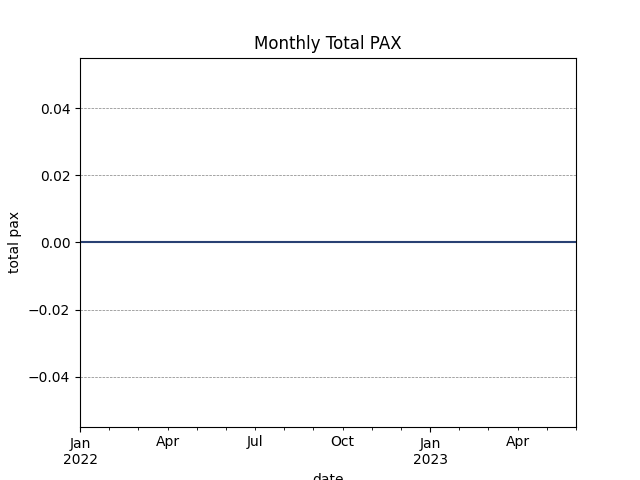
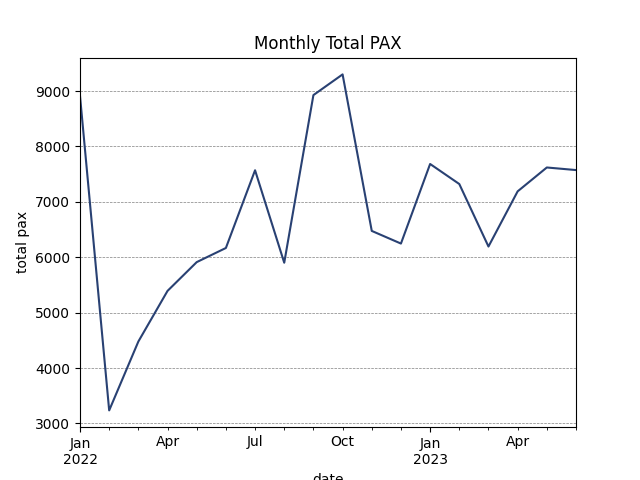
saving progress

diff --git a/DBanalysis/qry_generation.py b/DBanalysis/qry_generation.py
@@ -1,0 +1,76 @@
+# # import test3
+# class qrySwitch:
+#   total_seats = " SUM(\"Seats\") "
+#   total_pax = " SUM(\"Total pax\") "
+#   total_rev = " SUM(\"Rev\") "
+
+# class airports:
+#   from_india = "FROM cirium_traffic_asia WHERE \"Orig\" IN ('IXA', 'AMD', 'ATQ', 'BLR', 'BBI', 'MAA', 'CJB', 'DED', 'DEL', 'JWR', 'GOI', 'GOX', 'GAY', 'GAU', 'HYD', 'IMF', 'IDR', 'JAI', 'CNN', 'COK', 'CCU', 'CCJ', 'LKO', 'IXM', 'IXE', 'BOM', 'NAG',  'PNQ', 'IXR', 'IXB', 'SXR', 'STV', 'TRV', 'TIR', 'TRZ', 'BDQ', 'VNS', 'VGA', 'VTZ')"
+#   from_usa = ""
+
+# def monthGenerator(year, num):
+#     month = ''
+#     month2 = ''
+#     if (num > 12 & num < 1):
+#             return 0
+#     if (num >= 10 & num <= 12):
+#             month = '-' + str(num) + "-01 00:00:00' "
+#             month2 = '-' + str(num) + "-02 00:00:00'"
+#     else:
+#       month = '-0' + str(num) + "-01 00:00:00' "
+#       month2 = '-0' + str(num) + "-02 00:00:00'"
+#     return "BETWEEN " + "'" + str(year) + month + 'AND ' + str(year) + month2
+
+# def biannualGenerator(year, num):
+#     if (num >= 3 & num <= 0):
+#       return 'error'
+#     if (num == 1):
+#       return "BETWEEN " + "'" + str(year) + "-01-01 00:00:00' " + 'AND ' + str(year) + "-06-02 00:00:00' "
+#     else:
+#       return "BETWEEN " + "'" + str(year) + "-07-01 00:00:00' " + 'AND ' + str(year) + "-12-02 00:00:00' "
+
+# def qryGenerator(qry, interval, year, num):
+#     intv = ''
+#     if (interval == 'month'):
+#       intv = monthGenerator(year, num)
+#     elif (interval == 'biannual'):
+#       intv = biannualGenerator(year, num)
+
+#     if (qry == 'total_seats'):
+#       qry = qrySwitch.total_seats
+#     elif (qry == 'total_pax'):
+#       qry = qrySwitch.total_pax
+#     return 'SELECT ' + qry + "AND \"Year-Month-Day\" " + intv
+
+# print(qryGenerator('total_seats', 'month','2022', 11))
+
+locationDict = {"fromUs" : """WHERE "Orig" IN 
+             ('ABE', 'ABI', 'ABR', 'ABY', 'ACK', 'ACT', 'ACV', 'ACY', 'ADK', 'ADQ', 'AEX', 'AGS', 
+             'AKC', 'ALB', 'ALW', 'AMA', 'ANC', 'APN', 'ASE', 'ATL', 'ATW', 'AUG', 'AUS', 'AVL', 
+             'AVP', 'AZO', 'BDL', 'BET', 'BFF', 'BFL', 'BGM', 'BGR', 'BHM', 'BIL', 'BIS', 'BLI', 
+             'BMI', 'BNA', 'BOI', 'BOS', 'BPT', 'BQK', 'BQN', 'BRO', 'BRW', 'BTM', 'BTR', 'BTV', 
+             'BUF', 'BUR', 'BWI', 'BZN', 'CAE', 'CAK', 'CDC', 'CDV', 'CEC', 'CHA', 'CHO', 'CHS', 'CIC', 
+             'CID', 'CKB', 'CLD', 'CLE', 'CLL', 'CLT', 'CMH', 'CMI', 'COD', 'COS', 'CPR', 'CRP', 'CRW', 
+             'CSG', 'CVG', 'CWA', 'DAB', 'DAL', 'DAY', 'DBQ', 'DCA', 'DEN', 'DFW', 'DHN', 'DIK', 'DLG',
+              'DLH', 'DRO', 'DSM', 'DTW', 'DVL', 'EAR', 'EAT', 'EAU', 'ECP', 'EGE', 'EKO', 'ELM', 'ELP', 
+             'ERI', 'EUG', 'EVV', 'EWN', 'EWR', 'EYW', 'FAI', 'FAR', 'FAT', 'FAY', 'FCA', 'FCM', 'FLL', 
+             'FLO', 'FNT', 'FSD', 'FSM', 'FWA', 'FYV', 'GEG', 'GFK', 'GGG', 'GJT', 'GNV', 'GPT', 'GRB', 
+             'GRI', 'GRK', 'GRR', 'GSO', 'GSP', 'GST', 'GTF', 'GTR', 'GUC', 'HNL', 'HOB', 'HOU', 'HPN', 
+             'HRL', 'HSV', 'HTS', 'IAD', 'IAH', 'ICT', 'IDA', 'ILG', 'IND', 'INL', 'ISN', 'ISP', 'ITH', 'ITO', 
+             'IYK', 'JAC', 'JAN', 'JAX', 'JFK', 'JNU', 'KTN', 'LAN', 'LAS', 'LAX', 'LBB', 'LBE', 'LBF', 'LCH', 
+             'LCK', 'LEW', 'LEX', 'LFT', 'LGA', 'LGB', 'LIH', 'LIT', 'LMT', 'LNK', 'LRD', 'LSE', 'LWB', 'LYH',
+              'MBS', 'MCI', 'MCN', 'MCO', 'MDT', 'MDW', 'MEI', 'MEM', 'MFE', 'MFR', 'MHT', 'MIA', 'MKE', 'MKG', 
+             'MLB', 'MLU', 'MOB', 'MOD', 'MOT', 'MQT', 'MVY', 'MYR', 'OAJ', 'OAK', 'OGG', 'OKC', 'OMA', 'ONT', 
+             'ORD', 'ORF', 'OTZ', 'OXR', 'PBI', 'PDX', 'PGD', 'PHL', 'PHX', 'PIE', 'PIR', 'PIT', 'PSC', 'PSG', 'PSP', 
+             'PVD', 'PWM', 'RAP', 'RDD', 'RDM', 'RDU', 'RFD', 'RHI', 'RIC', 'RNO', 'ROC', 'ROW', 'RST', 'RSW', 'SAF', 
+             'SAN', 'SAT', 'SAV', 'SBA', 'SCE', 'SDF', 'SEA', 'SFB', 'SFO', 'SJC', 'SJT', 'SJU', 'SLC', 'SMF', 'SNA', 
+             'SPI', 'SPN', 'SRQ', 'STC', 'STL', 'STT', 'STX', 'SUN', 'SWF', 'SYR', 'TLH', 'TOL', 'TPA', 'TRI', 'TTN', 
+             'TUL', 'TUS', 'TVC', 'TWF', 'TXK', 'TYR', 'TYS', 'UIN', 'USA', 'VLD', 'VPS', 'WRG', 'WYS', 'XNA', 'YAK', 'YUM')
+"""}
+
+selectDict = {"pax" : "SUM(\"Total Pax\")"}
+
+def traLocGenerator(iata):
+    return 
+
+print(selectDict["pax"] + ' ' +locationDict["fromUs"])

diff --git a/DBanalysis/test3.py b/DBanalysis/test3.py
@@ -16,48 +16,7 @@ db_uri = 'postgresql://student003:chihrusvfnihdipp@dataviation-database-1.chl8zb
 engine = create_engine(db_uri, echo=False)
 conn = engine.connect()
 
-class qrySwitch:
-  total_seats = " SUM(\"Seats\") "
-  total_pax = " SUM(\"Total pax\") "
-  total_rev = " SUM(\"Rev\") "
 
-class airports:
-  from_india = "FROM cirium_traffic_asia WHERE \"Orig\" IN ('IXA', 'AMD', 'ATQ', 'BLR', 'BBI', 'MAA', 'CJB', 'DED', 'DEL', 'JWR', 'GOI', 'GOX', 'GAY', 'GAU', 'HYD', 'IMF', 'IDR', 'JAI', 'CNN', 'COK', 'CCU', 'CCJ', 'LKO', 'IXM', 'IXE', 'BOM', 'NAG',  'PNQ', 'IXR', 'IXB', 'SXR', 'STV', 'TRV', 'TIR', 'TRZ', 'BDQ', 'VNS', 'VGA', 'VTZ')"
-
-def monthGenerator(year, num):
-    month = ''
-    month2 = ''
-    if (num > 12 & num < 1):
-            return 0
-    if (num >= 10 & num <= 12):
-            month = '-' + str(num) + "-01 00:00:00' "
-            month2 = '-' + str(num) + "-02 00:00:00'"
-    else:
-      month = '-0' + str(num) + "-01 00:00:00' "
-      month2 = '-0' + str(num) + "-02 00:00:00'"
-    return "BETWEEN " + "'" + str(year) + month + 'AND ' + str(year) + month2
-
-def biannualGenerator(year, num):
-    if (num >= 3 & num <= 0):
-      return 'error'
-    if (num == 1):
-      return "BETWEEN " + "'" + str(year) + "-01-01 00:00:00' " + 'AND ' + str(year) + "-06-02 00:00:00' "
-    else:
-      return "BETWEEN " + "'" + str(year) + "-07-01 00:00:00' " + 'AND ' + str(year) + "-12-02 00:00:00' "
-
-def qryGenerator(qry, interval, year, num):
-    intv = ''
-    qry = ''
-    if (interval == 'month'):
-      intv = monthGenerator(year, num)
-    elif (interval == 'biannual'):
-      intv = biannualGenerator(year, num)
-
-    if (qry == 'total_seats'):
-      qry = qrySwitch.total_seats
-    elif (qry == 'total_pax'):
-      qry = qrySwitch.to
-    return 'SELECT ' + qry + "AND \"Year-Month-Day\" " + intv
 
 
 am_df = pd.read_sql_query(text("SELECT DISTINCT ON (DATE_TRUNC('month', \"Year-Month-Day\")) DATE_TRUNC('month', \"Year-Month-Day\") AS month, SUM(\"Total Pax\")as pax, AVG(\"Yield\")as yield FROM cirium_traffic_northamerica WHERE \"Year-Month-Day\">= '2022-01-01' AND \"Orig\" IN ('LAX') AND \"Stop-1 Airport\" is not null AND \"Total Pax\" >0 GROUP BY \"Year-Month-Day\" LIMIT 10000;"), conn)

diff --git a/DBanalysis/test2.py b/DBanalysis/test2.py
@@ -1,4 +1,5 @@
 import psycopg2
+import sys
 
 conn = psycopg2.connect(
     host = "dataviation-database-1.chl8zbfpbhhh.ap-southeast-2.rds.amazonaws.com",
@@ -28,5 +29,4 @@ def intervalGenerator(interval, year, num):
 def qryGenerator(interval, year, num):
     return "BETWEEN " + "''" + " AND " + "''"
 
-cursor.fetchall()
-
+print(cursor.fetchall())
